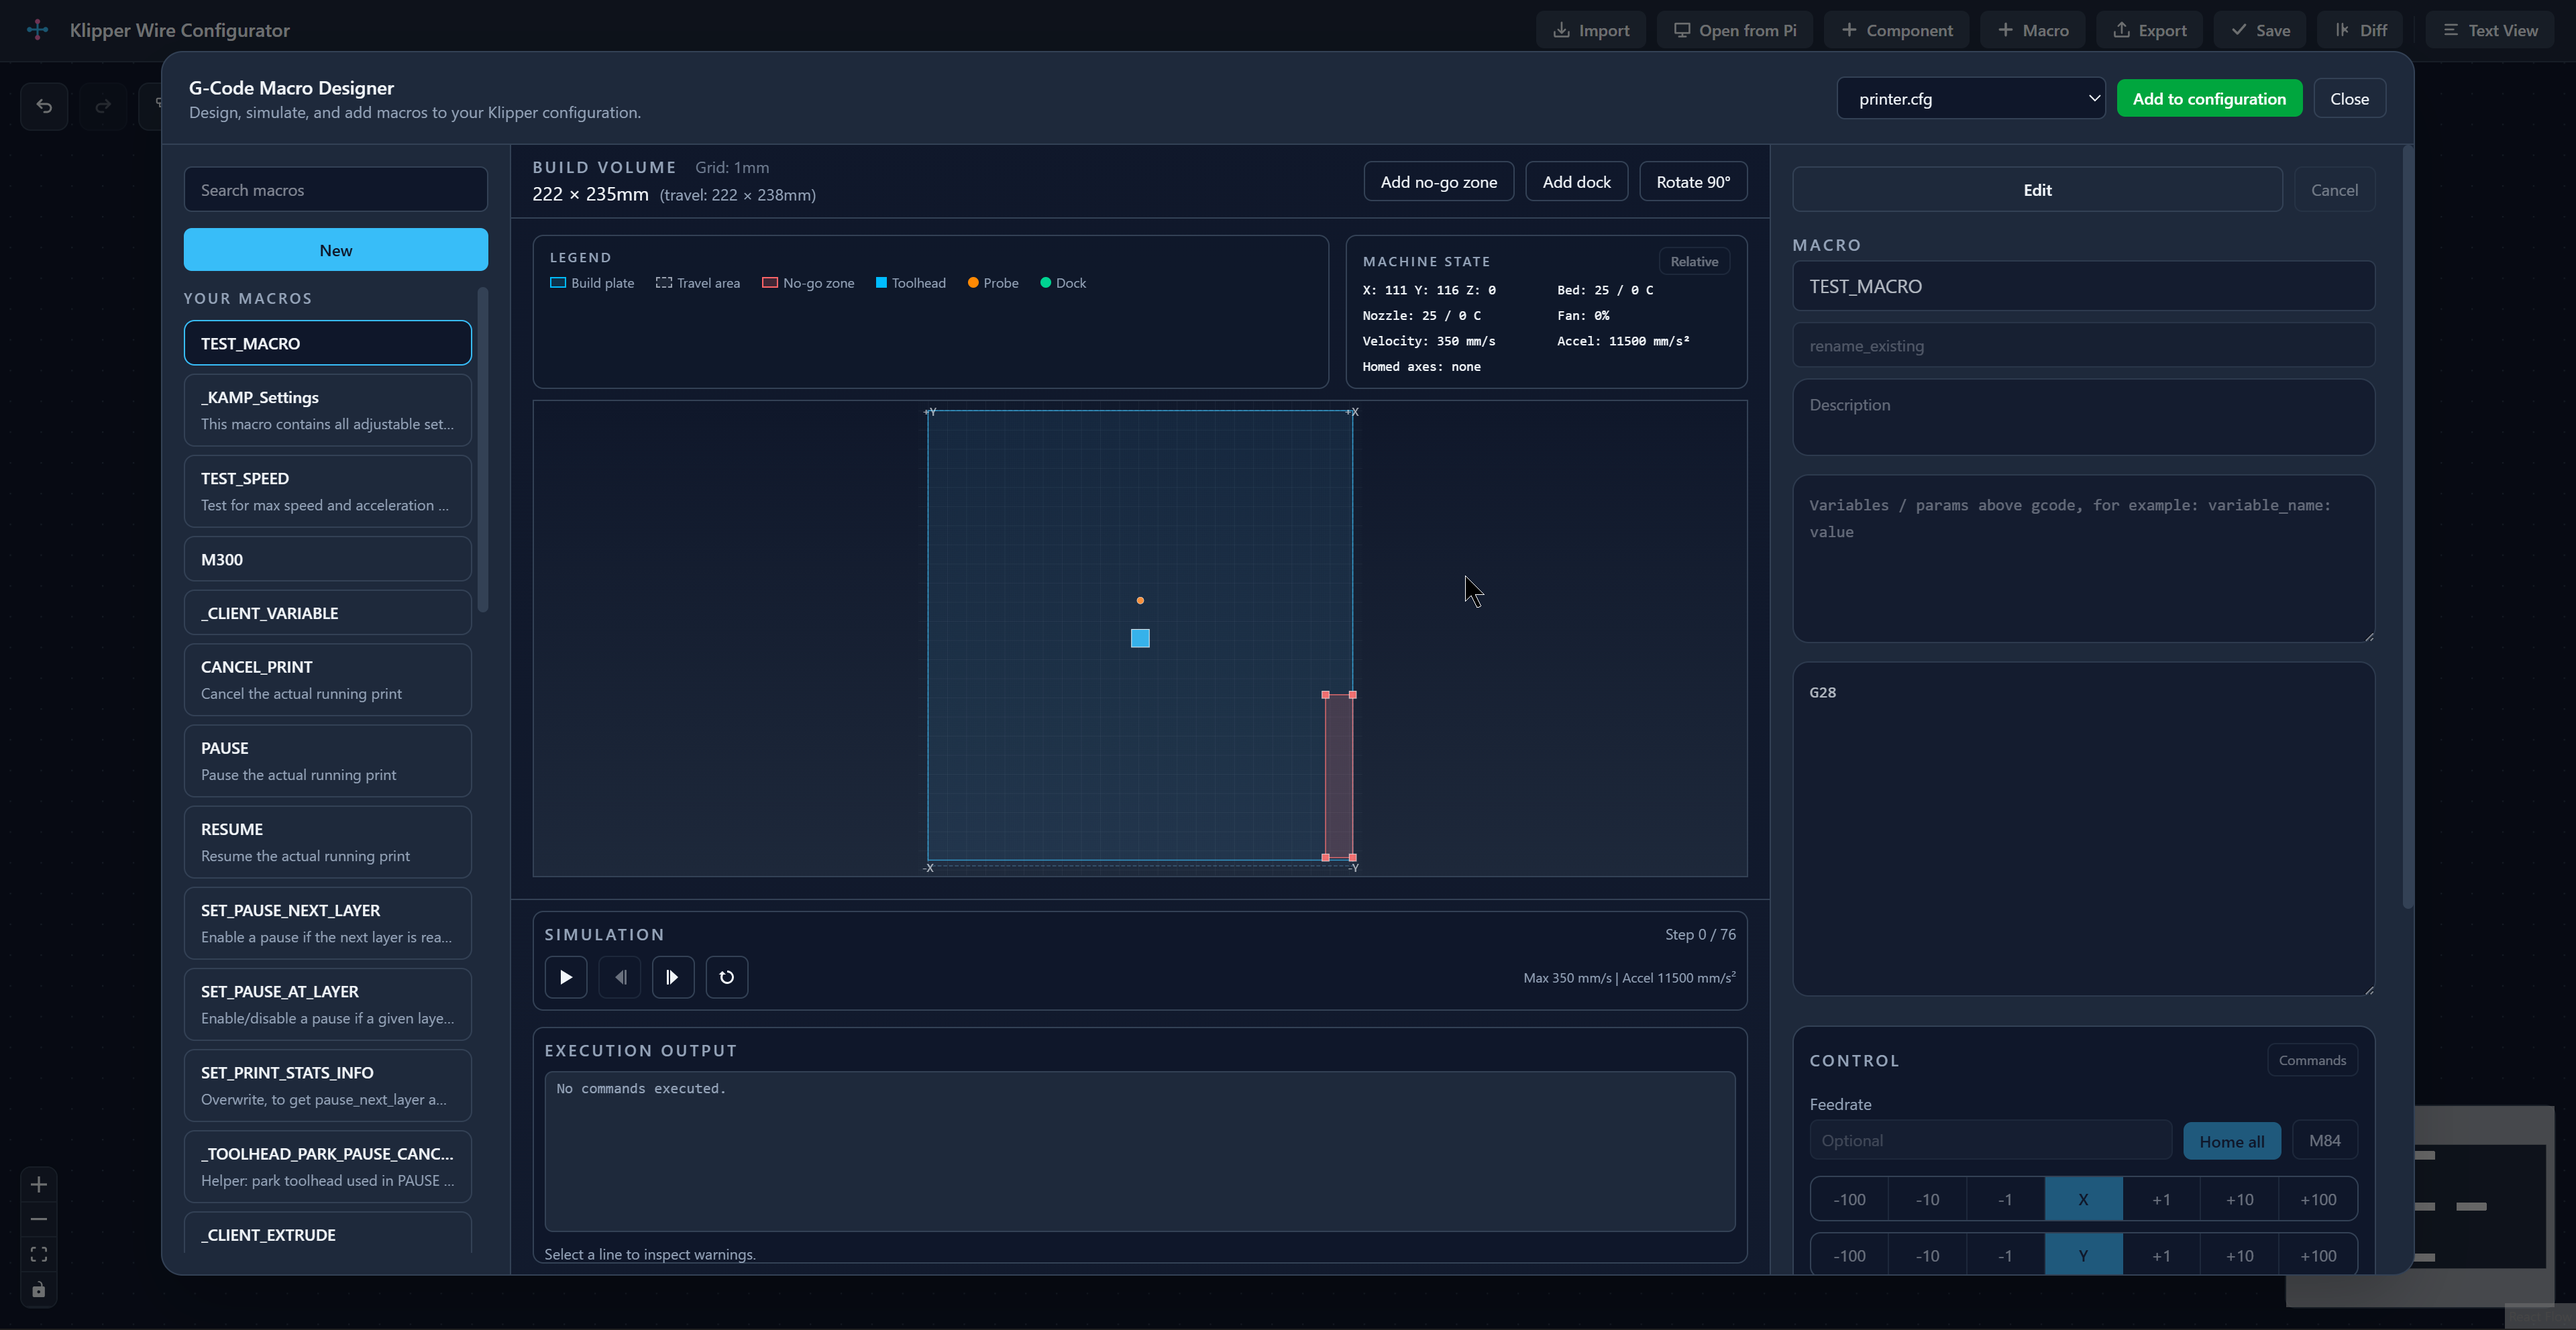
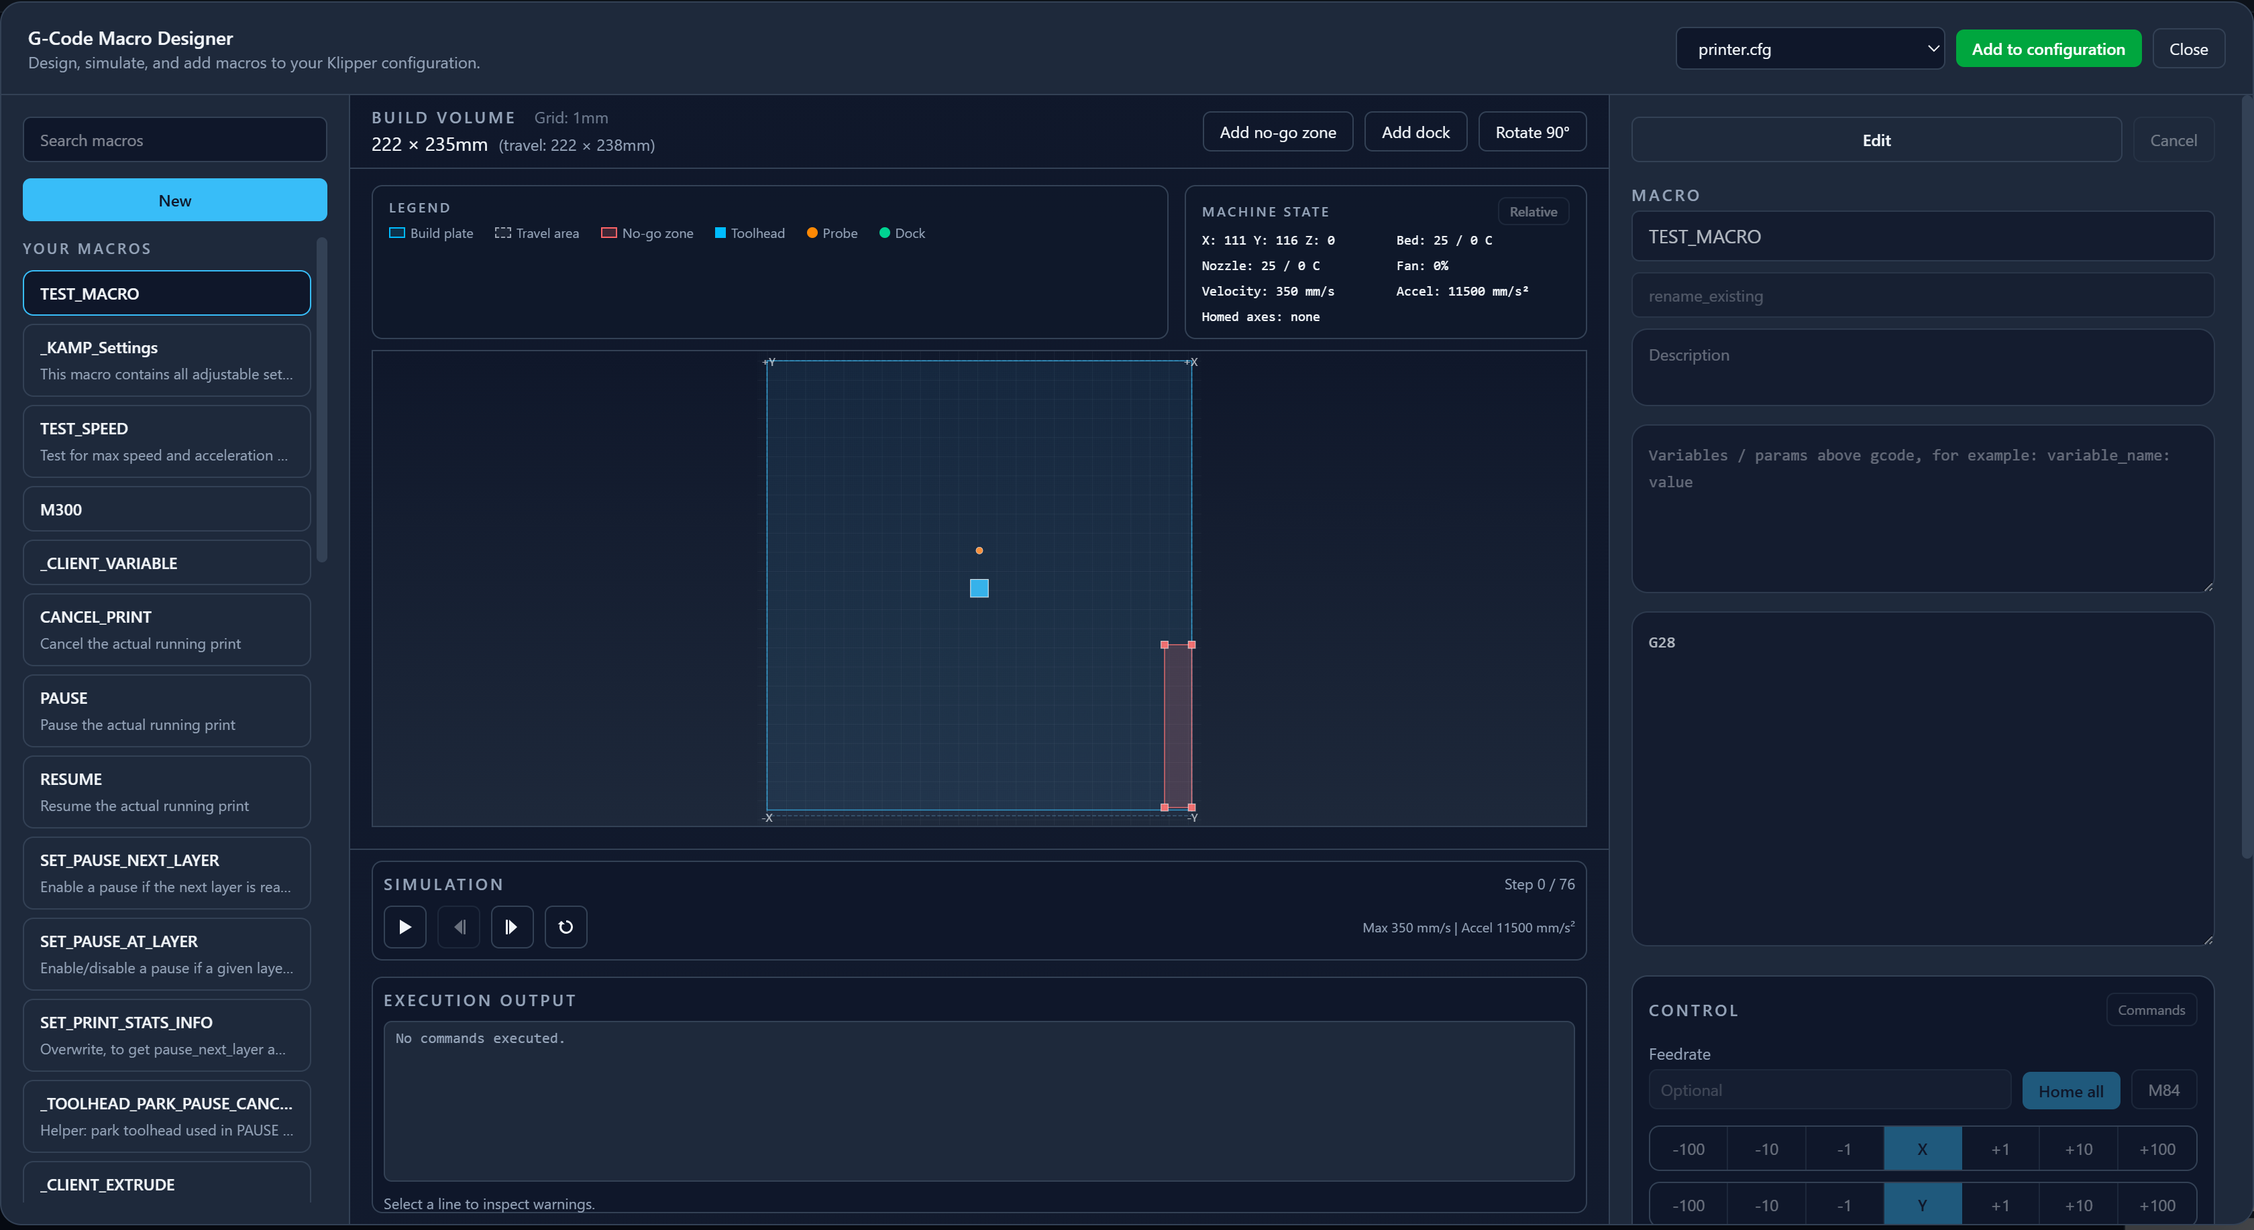
Update Image Labels

diff --git a/README.md b/README.md
@@ -12,9 +12,15 @@ The main README focuses on Raspberry Pi installation and development. Additional
 
 <img src="images/Graph_UI.png" width="1000" height="660">
 
+#### Side Menu
+
 <img src="images/Side_Menu.png" width="330" height="495">
 
+#### Live Errors
+
 <img src="images/Live_Errors.png" width="495" height="330">
+
+#### Diff Checking
 
 <img src="images/Diff_Menu.png" width="495" height="330">
 
